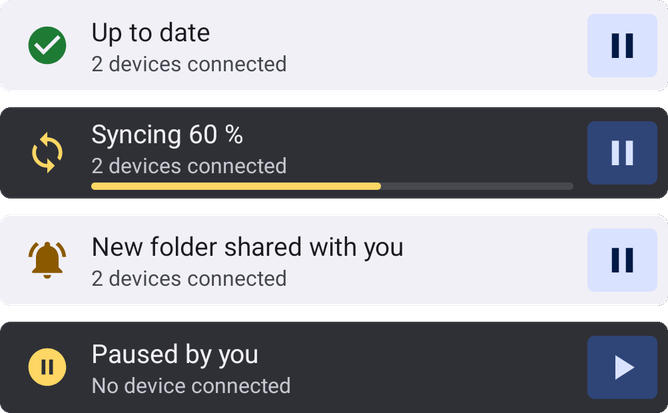
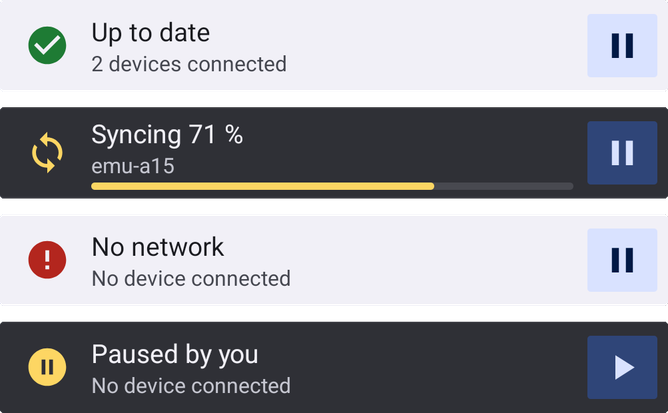
Widget: almost square corners

diff --git a/MEMORY.md b/MEMORY.md
@@ -51,7 +51,7 @@ Resume notes for any session. Dates are ISO 8601, times 24 h.
 - Request notification (own channel, Review/Ignore actions): mockup shown, waiting for the user's OK.
 
 ## Widget (branch `home-widget`, stacked on `native-gui`, 2026-10-25)
-- `core/StatusWidget`: RemoteViews bar, full width x 1 like the search bar (targetCellWidth 5, minWidth 290 dp), 52 dp high centred in the cell, 6 dp corners (user wants little rounding), no polling: the service renders on summary changes, at most every 2 s. Colour + icon per `SyncState` (green check, amber arrows/pause/bell, red error, grey stop), progress bar while syncing, pause/resume button toggles `RunConditions.pausedByUser` (enforced like a run condition; also a Settings switch). Tap opens the app (Devices tab when only a device request waits).
+- `core/StatusWidget`: RemoteViews bar, full width x 1 like the search bar (targetCellWidth 5, minWidth 290 dp), 52 dp high centred in the cell, 2 dp corners (user wants almost square). The launcher drag outline is the whole cell row and cannot be smaller than one row, no polling: the service renders on summary changes, at most every 2 s. Colour + icon per `SyncState` (green check, amber arrows/pause/bell, red error, grey stop), progress bar while syncing, pause/resume button toggles `RunConditions.pausedByUser` (enforced like a run condition; also a Settings switch). Tap opens the app (Devices tab when only a device request waits).
 - Request notifications (`core/RequestNotifications`, channel "Requests"): one per pending device/folder offer, Review deep-links to the accept screen or add-device dialog, Ignore is permanent (remoteIgnoredDevices / device ignoredFolders, like upstream). No explicit group: cancelling a group summary drops its children.
 - Problem (red) includes "No network" and "Not connected"; a single offline device is grey in the app.
 - README features the widget near the top with docs/images/widget.png. F-Droid description should mention it once fastlane metadata exists.

diff --git a/README.md b/README.md
@@ -6,7 +6,7 @@ A Syncthing client for Android 15 and 16 (API 35/36), written in Kotlin and Jetp
 
 See your sync status at a glance, without opening the app. The widget is a single row, the size of a search bar. It shows whether everything is up to date, syncing (with progress), paused or needs your attention, and which devices are connected. Its button pauses and resumes syncing, and a tap opens the app. Colours and icons follow your wallpaper and dark mode.
 
-<p align="center"><img src="docs/images/widget.png" width="400" alt="The widget in four states: up to date, syncing at 60 %, a new folder shared with you, and paused"></p>
+<p align="center"><img src="docs/images/widget.png" width="400" alt="The widget in four states: up to date, syncing at 71 %, no network, and paused"></p>
 
 ## Features
 
